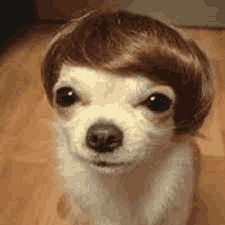
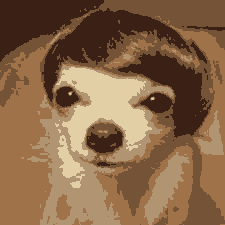
Mise à jour du README.md avec des sections d'exercices et des images de référence. Ajout color grading et poor lightroom.

diff --git a/src/31-color-grading.cpp b/src/31-color-grading.cpp
@@ -1,0 +1,136 @@
+#include <sil/sil.hpp>
+#include <algorithm>
+#include <iostream>
+#include <cmath>
+
+// Structure pour représenter une couleur en HSL
+struct HSL {
+    float h; // Hue (0-360)
+    float s; // Saturation (0-1)
+    float l; // Lightness (0-1)
+};
+
+// Fonction pour convertir une couleur RGB en HSL
+HSL rgbToHsl(const glm::vec3& rgb) {
+    float r = rgb.r;
+    float g = rgb.g;
+    float b = rgb.b;
+
+    float max = std::max({r, g, b});
+    float min = std::min({r, g, b});
+    float delta = max - min;
+
+    HSL hsl;
+    hsl.l = (max + min) / 2.0f;
+
+    if (delta == 0) {
+        hsl.h = 0;
+        hsl.s = 0;
+    } else {
+        hsl.s = hsl.l > 0.5f ? delta / (2.0f - max - min) : delta / (max + min);
+
+        if (max == r) {
+            hsl.h = (g - b) / delta + (g < b ? 6 : 0);
+        } else if (max == g) {
+            hsl.h = (b - r) / delta + 2;
+        } else {
+            hsl.h = (r - g) / delta + 4;
+        }
+
+        hsl.h *= 60;
+    }
+
+    return hsl;
+}
+
+// Fonction pour convertir une couleur HSL en RGB
+glm::vec3 hslToRgb(const HSL& hsl) {
+    float h = hsl.h / 360.0f;
+    float s = hsl.s;
+    float l = hsl.l;
+
+    auto hueToRgb = [](float p, float q, float t) {
+        if (t < 0) t += 1;
+        if (t > 1) t -= 1;
+        if (t < 1.0f / 6.0f) return p + (q - p) * 6 * t;
+        if (t < 1.0f / 2.0f) return q;
+        if (t < 2.0f / 3.0f) return p + (q - p) * (2.0f / 3.0f - t) * 6;
+        return p;
+    };
+
+    float r, g, b;
+
+    if (s == 0) {
+        r = g = b = l; // achromatic
+    } else {
+        float q = l < 0.5f ? l * (1 + s) : l + s - l * s;
+        float p = 2 * l - q;
+        r = hueToRgb(p, q, h + 1.0f / 3.0f);
+        g = hueToRgb(p, q, h);
+        b = hueToRgb(p, q, h - 1.0f / 3.0f);
+    }
+
+    return glm::vec3(r, g, b);
+}
+
+// Fonction pour ajuster la teinte et la saturation d'une couleur HSL
+HSL adjustHueSaturation(const HSL& hsl, float hueAdjustment, float saturationAdjustment) {
+    HSL adjustedHsl = hsl;
+    adjustedHsl.h = std::fmod(hsl.h + hueAdjustment, 360.0f);
+    if (adjustedHsl.h < 0) adjustedHsl.h += 360.0f;
+    adjustedHsl.s = std::clamp(hsl.s + saturationAdjustment / 100.0f, 0.0f, 1.0f);
+    return adjustedHsl;
+}
+
+// Fonction pour appliquer le color grading à une image
+void applyColorGrading(sil::Image& image, float hueHighlights, float saturationHighlights, float hueShadows, float saturationShadows, float hueMidtones, float saturationMidtones, float hueGlobal, float saturationGlobal) {
+    for (int y = 0; y < image.height(); ++y) {
+        for (int x = 0; x < image.width(); ++x) {
+            glm::vec3& pixel = image.pixel(x, y);
+            HSL hsl = rgbToHsl(pixel);
+
+            // Ajuster la teinte et la saturation globales
+            hsl = adjustHueSaturation(hsl, hueGlobal, saturationGlobal);
+
+            // Ajuster la teinte et la saturation des hautes lumières
+            if (hsl.l > 0.75f) {
+                hsl = adjustHueSaturation(hsl, hueHighlights, saturationHighlights);
+            }
+            // Ajuster la teinte et la saturation des ombres
+            else if (hsl.l < 0.25f) {
+                hsl = adjustHueSaturation(hsl, hueShadows, saturationShadows);
+            }
+            // Ajuster la teinte et la saturation des midtones
+            else {
+                hsl = adjustHueSaturation(hsl, hueMidtones, saturationMidtones);
+            }
+
+            pixel = hslToRgb(hsl);
+
+            // Clamper les valeurs pour s'assurer qu'elles sont dans la plage [0, 1]
+            pixel.r = std::clamp(pixel.r, 0.0f, 1.0f);
+            pixel.g = std::clamp(pixel.g, 0.0f, 1.0f);
+            pixel.b = std::clamp(pixel.b, 0.0f, 1.0f);
+        }
+    }
+}
+
+int main() {
+    sil::Image image{"images/doggo.jpg"};
+
+    // Ajustements : valeurs de teinte entre 0 et 360, valeurs de saturation entre 0 et 100
+    float hueHighlights = 200; // Exemple : ajuster la teinte des hautes lumières
+    float saturationHighlights = 0; // Exemple : ajuster la saturation des hautes lumières
+    float hueShadows = 350; // Exemple : ajuster la teinte des ombres
+    float saturationShadows = 5; // Exemple : ajuster la saturation des ombres
+    float hueMidtones = 350; // Exemple : ajuster la teinte des midtones
+    float saturationMidtones = 5; // Exemple : ajuster la saturation des midtones
+    float hueGlobal = 0; // Exemple : ajuster la teinte globale
+    float saturationGlobal = 0; // Exemple : ajuster la saturation globale
+
+    applyColorGrading(image, hueHighlights, saturationHighlights, hueShadows, saturationShadows, hueMidtones, saturationMidtones, hueGlobal, saturationGlobal);
+
+    image.save("output/" FILE_NAME ".png");
+
+    return 0;
+}

diff --git a/src/30-poor-lightroom.cpp b/src/30-poor-lightroom.cpp
@@ -1,0 +1,63 @@
+#include <sil/sil.hpp>
+#include <algorithm>
+#include <iostream>
+
+// Fonction pour ajuster les valeurs des pixels
+float adjustValue(float value, int adjustment) {
+    float factor = adjustment / 100.0f;
+    if (adjustment > 0) {
+        return value + (1.0f - value) * factor;
+    } else {
+        return value + value * factor;
+    }
+}
+
+// Fonction pour ajuster les hautes lumières, les ombres, les blancs et les noirs
+void adjustImage(sil::Image& image, int highlights, int shadows, int whites, int blacks) {
+    for (int y = 0; y < image.height(); ++y) {
+        for (int x = 0; x < image.width(); ++x) {
+            glm::vec3& pixel = image.pixel(x, y);
+
+            // Ajuster les hautes lumières
+            if (pixel.r > 0.5f) pixel.r = adjustValue(pixel.r, highlights);
+            if (pixel.g > 0.5f) pixel.g = adjustValue(pixel.g, highlights);
+            if (pixel.b > 0.5f) pixel.b = adjustValue(pixel.b, highlights);
+
+            // Ajuster les ombres
+            if (pixel.r < 0.5f) pixel.r = adjustValue(pixel.r, shadows);
+            if (pixel.g < 0.5f) pixel.g = adjustValue(pixel.g, shadows);
+            if (pixel.b < 0.5f) pixel.b = adjustValue(pixel.b, shadows);
+
+            // Ajuster les blancs
+            if (pixel.r > 0.9f) pixel.r = adjustValue(pixel.r, whites);
+            if (pixel.g > 0.9f) pixel.g = adjustValue(pixel.g, whites);
+            if (pixel.b > 0.9f) pixel.b = adjustValue(pixel.b, whites);
+
+            // Ajuster les noirs
+            if (pixel.r < 0.1f) pixel.r = adjustValue(pixel.r, blacks);
+            if (pixel.g < 0.1f) pixel.g = adjustValue(pixel.g, blacks);
+            if (pixel.b < 0.1f) pixel.b = adjustValue(pixel.b, blacks);
+
+            // Clamper les valeurs pour s'assurer qu'elles sont dans la plage [0, 1]
+            pixel.r = std::clamp(pixel.r, 0.0f, 1.0f);
+            pixel.g = std::clamp(pixel.g, 0.0f, 1.0f);
+            pixel.b = std::clamp(pixel.b, 0.0f, 1.0f);
+        }
+    }
+}
+
+int main() {
+    sil::Image image{"images/doggo.jpg"};
+
+    // Ajustements : valeurs entre -100 et 100
+    int highlights = -10; // Exemple : augmenter les hautes lumières
+    int shadows = 10;   // Exemple : diminuer les ombres
+    int whites = 10;     // Exemple : augmenter les blancs
+    int blacks = -10;    // Exemple : diminuer les noirs
+
+    adjustImage(image, highlights, shadows, whites, blacks);
+
+    image.save("output/" FILE_NAME ".png");
+
+    return 0;
+}

diff --git a/src/23-vortex.cpp b/src/23-vortex.cpp
@@ -3,35 +3,49 @@
 #include <glm/glm.hpp>
 #include <cmath>
 
+// Fonction qui applique une transformation de vortex à un point donné
 glm::vec2 vortex(glm::vec2 point, glm::vec2 center_of_rotation, float angle, float strength)
 {
+    // Calcul de l'offset par rapport au centre de rotation
     glm::vec2 offset = point - center_of_rotation;
+    // Calcul de la distance entre le point et le centre de rotation
     float distance = glm::length(offset);
+    // Calcul de l'angle de rotation proportionnel à la distance et à la force du vortex
     float vortex_angle = angle * distance * strength;
+    // Application de la rotation au point
     glm::vec2 rotated_point = glm::vec2{glm::rotate(glm::mat3{1.f}, vortex_angle) * glm::vec3{offset, 0.f}};
+    // Retourne le point transformé en ajoutant le centre de rotation
     return rotated_point + center_of_rotation;
 }
 
+// Fonction qui applique l'effet de vortex à une image entière
 void applyVortexEffect(sil::Image& image, glm::vec2 center_of_rotation, float angle, float strength)
 {
     int width = image.width();
     int height = image.height();
+    // Création d'une nouvelle image pour stocker le résultat
     sil::Image result{width, height};
 
+    // Parcours de chaque pixel de l'image
     for (int y = 0; y < height; ++y)
     {
         for (int x = 0; x < width; ++x)
         {
+            // Création d'un vecteur pour le point actuel
             glm::vec2 point{x, y};
+            // Application de la transformation de vortex au point
             glm::vec2 new_point = vortex(point, center_of_rotation, angle, strength);
 
+            // Vérification que le nouveau point est dans les limites de l'image
             if (new_point.x >= 0 && new_point.x < width && new_point.y >= 0 && new_point.y < height)
             {
+                // Copie du pixel de l'image originale à la nouvelle position dans l'image résultat
                 result.pixel(x, y) = image.pixel(new_point.x, new_point.y);
             }
         }
     }
 
+    // Remplacement de l'image originale par l'image résultat
     image = result;
 }
 

diff --git a/src/25-k-means.cpp b/src/25-k-means.cpp
@@ -4,7 +4,7 @@
 #include <random>
 
 int main() {
-    const int k = 30;
+    const int k = 5;
     const int maxIterations = 100;
     
     // On charge les pixels de l'image dans une liste

diff --git a/README.md b/README.md
@@ -2,8 +2,11 @@
 
 <font color="#00b0f0">Max et Mathéo</font>
 
+Markdown All In One: Create Table of Contents
+
 ## Exercices
 
+Image de référence
 ![Image de référence](/output/00-base.png "Image")
 
 ### 1 étoile ⭐ 
@@ -81,3 +84,22 @@
 ![Image modifée](/output "Image")
 #### ⭐⭐ Colorer la height map
 ![Image modifée](/output "Image")
+
+### Bonus
+#### Fullnoise
+![Image modifée](/output/28-fullnoise.png "Image")
+#### Onde
+![Image modifée](/output/29-cercle-onde.png "Image")
+#### Poor Lightroom
+|Before|After|
+|--|--|
+|![Image de base](/images/doggo.jpg "Image")|![Image modifée](/output/30-poor-lightroom.png "Image")|
+#### Color Grading
+|Before|After|
+|--|--|
+|![Image de base](/images/doggo.jpg "Image")|![Image modifée](/output/31-color-grading.png "Image")|
+
+|Base|Edit|
+|--|--|
+|![Image de base](/images/ "Image")|![Image modifée](/output "Image")|
+
